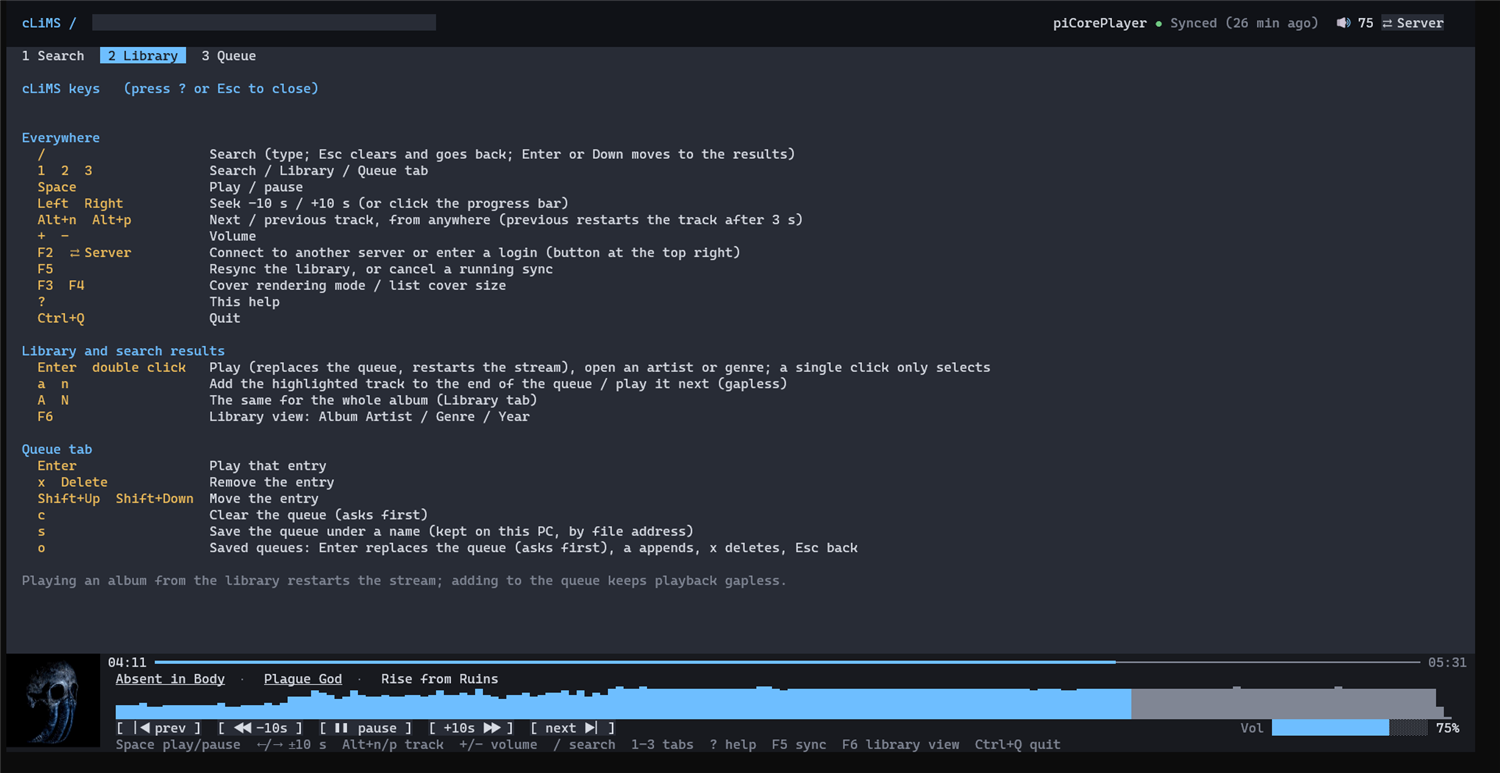
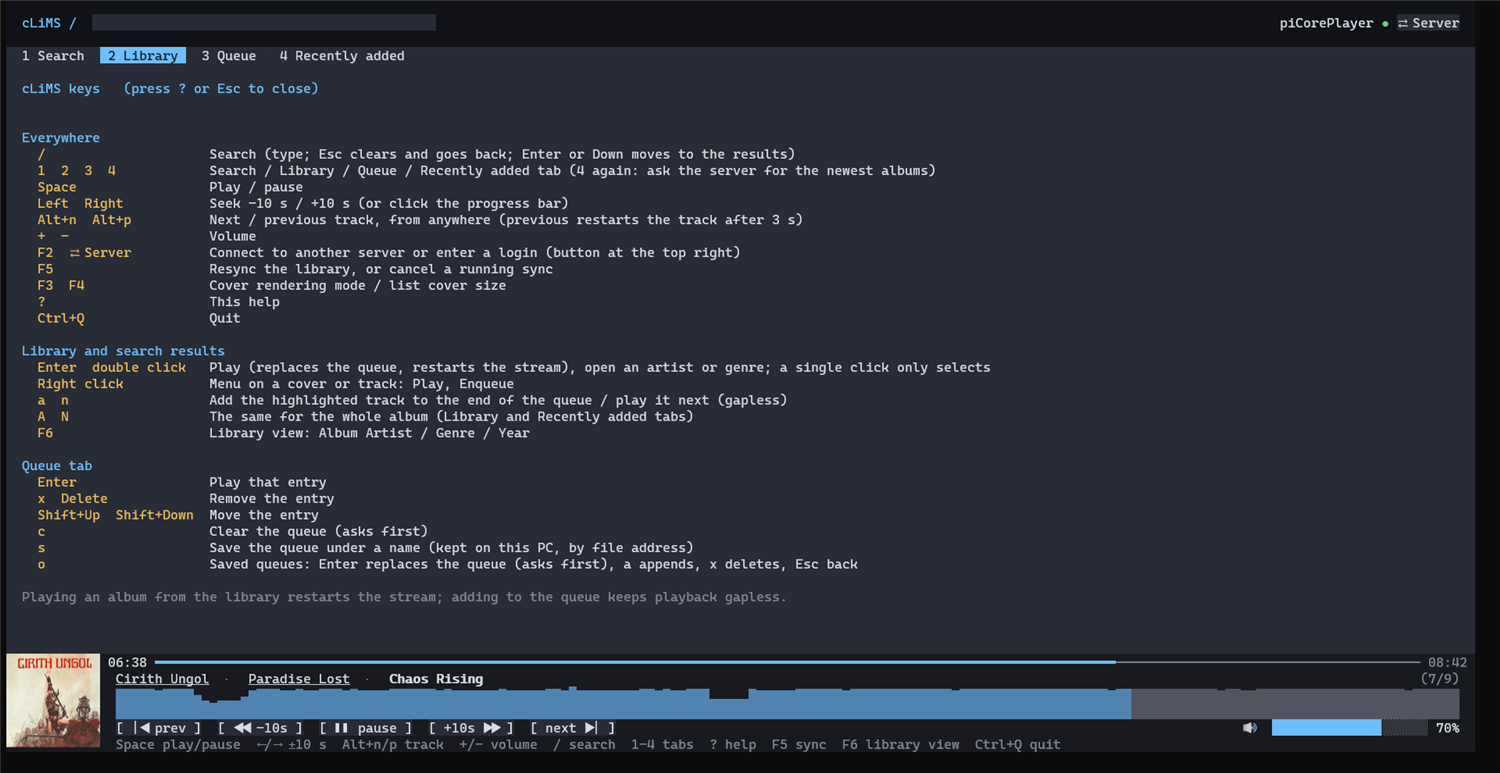
Release 0.8.0
Claude-Session: https://claude.ai/code/session_01GzxKHAhf3PcUgpYxFm8gyR

diff --git a/CHANGELOG.md b/CHANGELOG.md
@@ -3,12 +3,11 @@ All notable changes are listed here. The format follows [Keep a Changelog](https
 
 ## [Unreleased]
 
-## [0.8.0] - Unreleased
+## [0.8.0] - 2026-11-08
 
 ### Added
 - Album lists show a sort label at the top right of the heading row ("Year ▼" / "Year ▲"); click it to flip the direction.
 - The artist, year and genres on an album's line are links (underlined): the artist opens in the Library, a genre opens the Genre view with that genre selected, the year opens the Year view with that year selected. They work on the Library and Recently added tabs.
-
 - Click the cover in the player to open the playing album full screen: large cover on the left; artist, album title, genres, runtime in minutes and file format (with a lossless/lossy icon) on the right. The rest of the screen stays visible, dimmed. Esc, Enter, `q` or a click closes it; playback keys still work.
 - Right-click an album cover or a track (in the Library, Recently added and Search tabs) for a menu with "Play" and "Enqueue". On a cover they act on the whole album, on a track on that track. Arrow keys, Enter, Esc and the mouse work in the menu.
 - Multi-disc albums show a "Disc N" heading above each disc, and every disc's tracks are split into two columns of their own.
@@ -43,3 +42,4 @@ First tagged release.
 - The binaries are not code-signed (Windows SmartScreen will warn on first run).
 
 [0.7.0]: https://github.com/tanathos/cLiMS/releases/tag/v0.7.0
+[0.8.0]: https://github.com/tanathos/cLiMS/releases/tag/v0.8.0

diff --git a/README.md b/README.md
@@ -25,6 +25,14 @@ The Library, with covers, genres in italic, a resizable and filterable left colu
 
 ![Library](screenshots/library.png)
 
+The Recently added tab: the newest 50 albums on the server, newest first:
+
+![Recently added](screenshots/recent.png)
+
+Click the cover in the player to see the playing album full screen:
+
+![Full-screen cover](screenshots/cover.png)
+
 Search results appear as you type, with the matched text highlighted:
 
 ![Search](screenshots/search.png)
